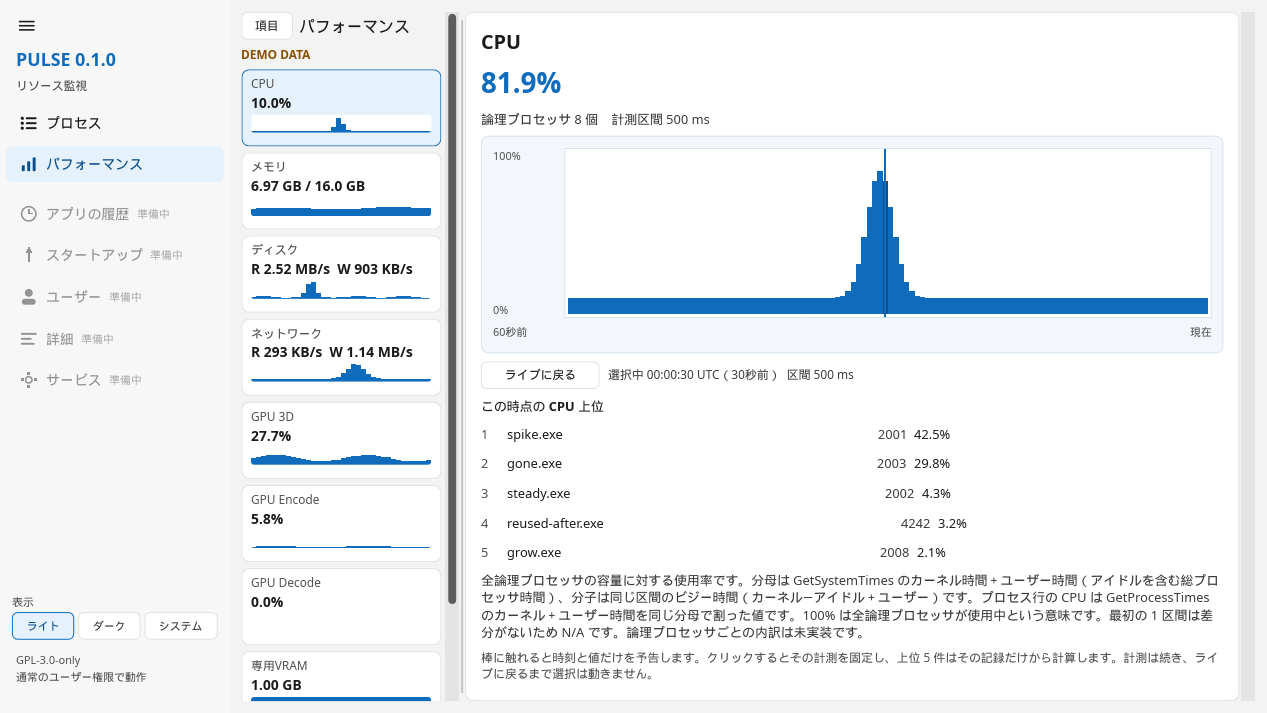
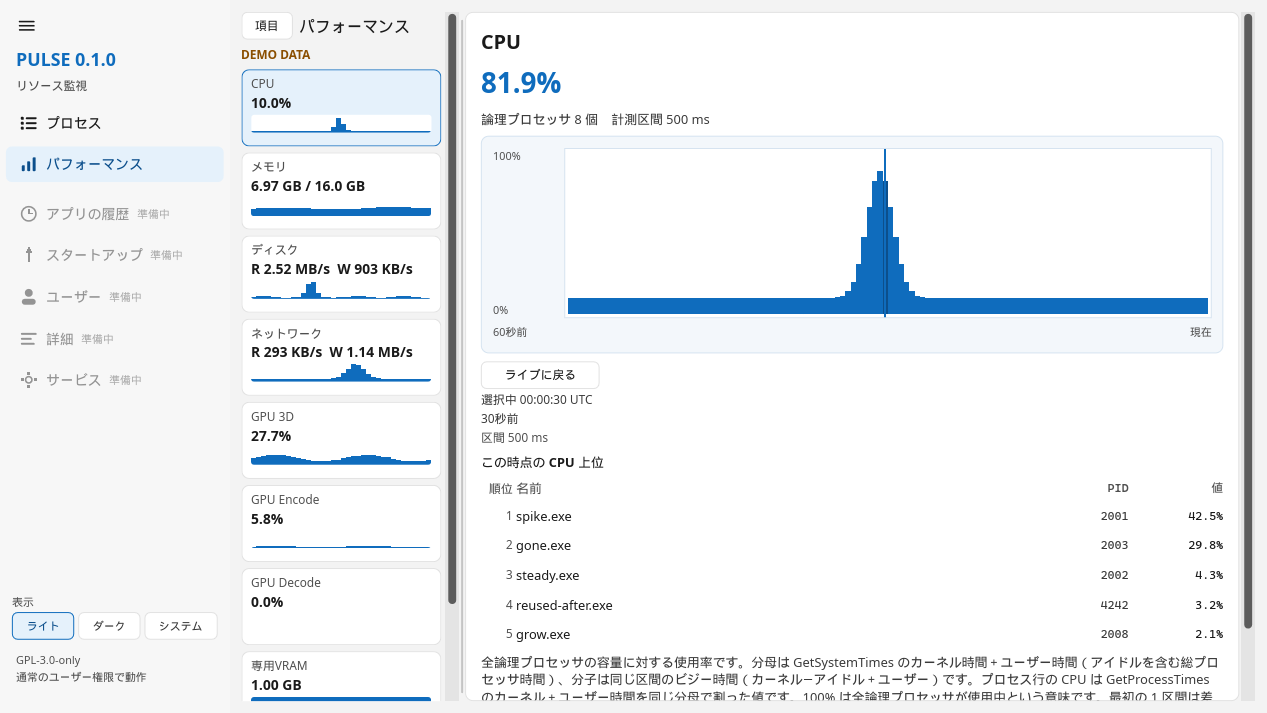
Align the ranking table and keep selection text from wrapping mid-phrase.
The top five share fixed right-aligned PID and value columns, and the
selected time, age, and interval sit on separate lines. A short window
uses a shorter graph so those rows stay on screen.

diff --git a/src/ui.rs b/src/ui.rs
@@ -41,6 +41,8 @@ struct UiState {
     adapter: Option<u64>,
     rank_cache: Option<RankCache>,
     pending_slot: Option<i32>,
+    /// Screenshot aid: a snapshot already evicted from the ring.
+    pending_retained: Option<Arc<Snapshot>>,
     rows: Rc<VecModel<ProcessRow>>,
     top: Rc<VecModel<TopRow>>,
     detail_points: Rc<VecModel<f32>>,
@@ -56,7 +58,8 @@ struct UiState {
 }
 
 pub fn run(options: LaunchOptions) -> Result<(), String> {
-    let sampler = SamplerHandle::start(options.demo.as_deref())?;
+    let mut sampler = SamplerHandle::start(options.demo.as_deref(), options.retained_pin())?;
+    let retained = sampler.take_retained();
     let ui = AppWindow::new().map_err(|err| format!("ウィンドウを作成できませんでした: {err}"))?;
     ui.set_version_text(format!("PULSE {}", env!("CARGO_PKG_VERSION")).into());
     ui.set_page(options.page);
@@ -83,7 +86,12 @@ pub fn run(options: LaunchOptions) -> Result<(), String> {
         timeline: Vec::new(),
         adapter: None,
         rank_cache: None,
-        pending_slot: options.select_history,
+        pending_slot: if retained.is_some() {
+            None
+        } else {
+            options.select_history
+        },
+        pending_retained: retained,
         rows: Rc::new(VecModel::from(Vec::<ProcessRow>::new())),
         top: Rc::new(VecModel::from(Vec::<TopRow>::new())),
         detail_points: Rc::new(VecModel::from(Vec::<f32>::new())),
@@ -429,6 +437,11 @@ fn apply(ui: &AppWindow, state: &Rc<RefCell<UiState>>, sample: &PublishedSample,
         }
         state.last_sequence = Some(sample.snapshot.sequence);
         state.timeline = sample.timeline.clone();
+        if let Some(snapshot) = state.pending_retained.take() {
+            state.selection.pin(snapshot);
+            state.pending_slot = None;
+            state.rank_cache = None;
+        }
         if let Some(index) = state.pending_slot.take() {
             pin_slot(&mut state, index);
         }
@@ -499,7 +512,7 @@ fn paint_history(
     resource: ResourceId,
     sample: &PublishedSample,
 ) {
-    let (adapter, shown, cursor, pinned, label, rows, caption, empty) = {
+    let (adapter, shown, cursor, pinned, lines, rows, caption, empty) = {
         let mut state = state.borrow_mut();
         let adapter = if gpu_resource(resource) {
             state.adapter
@@ -517,9 +530,9 @@ fn paint_history(
             .selected()
             .and_then(|selected| slot_of_id(&axis, selected.sequence));
         let pinned = !state.selection.is_live();
-        let label = match state.selection.selected() {
-            Some(selected) => history_label(selected, &sample.snapshot, cursor.is_some()),
-            None => String::new(),
+        let lines = match state.selection.selected() {
+            Some(selected) => history_lines(selected, &sample.snapshot, cursor.is_some()),
+            None => HistoryLines::none(),
         };
         let key = state
             .selection
@@ -563,7 +576,7 @@ fn paint_history(
             shown,
             cursor,
             pinned,
-            label,
+            lines,
             cache.rows.clone(),
             cache.caption.clone(),
             cache.empty.clone(),
@@ -579,7 +592,10 @@ fn paint_history(
     ui.set_detail_graph(detail.show_graph);
     ui.set_history_cursor(cursor.map(|index| index as i32).unwrap_or(-1));
     ui.set_history_pinned(pinned);
-    ui.set_history_label(label.into());
+    ui.set_history_when(lines.when.into());
+    ui.set_history_age(lines.age.into());
+    ui.set_history_interval(lines.interval.into());
+    ui.set_history_outside(lines.outside.into());
     ui.set_rank_caption(caption.into());
     ui.set_rank_empty(
         if empty.is_empty() {
@@ -664,7 +680,26 @@ fn hover_text(state: &UiState, index: i32) -> String {
     format!("{clock}  {}", detail.value)
 }
 
-fn history_label(selected: &Snapshot, latest: &Snapshot, in_window: bool) -> String {
+struct HistoryLines {
+    when: String,
+    age: String,
+    interval: String,
+    outside: String,
+}
+
+impl HistoryLines {
+    fn none() -> Self {
+        Self {
+            when: String::new(),
+            age: String::new(),
+            interval: String::new(),
+            outside: String::new(),
+        }
+    }
+}
+
+/// Separate lines so a narrow pane cannot break inside 「（30秒前）」.
+fn history_lines(selected: &Snapshot, latest: &Snapshot, in_window: bool) -> HistoryLines {
     let age = format_age(
         latest
             .monotonic
@@ -676,9 +711,19 @@ fn history_label(selected: &Snapshot, latest: &Snapshot, in_window: bool) -> Str
         None => "区間は未確定".to_string(),
     };
     if in_window {
-        format!("選択中 {clock}（{age}）  {interval}")
+        HistoryLines {
+            when: format!("選択中 {clock}"),
+            age,
+            interval,
+            outside: String::new(),
+        }
     } else {
-        format!("選択中：{age}（{clock}、{interval}）。この時点は直近 60 秒のグラフの外です")
+        HistoryLines {
+            when: format!("選択中：{age}"),
+            age: clock,
+            interval,
+            outside: "この時点は直近 60 秒のグラフの外です".to_string(),
+        }
     }
 }
 
@@ -844,6 +889,37 @@ fn sync_model<T: Clone + 'static>(model: &VecModel<T>, mut next: Vec<T>) {
     }
     while model.row_count() > target {
         let _ = model.remove(model.row_count() - 1);
+    }
+}
+
+#[cfg(test)]
+mod history_line_tests {
+    use super::history_lines;
+    use crate::model::Snapshot;
+    use std::time::{Duration, Instant, SystemTime};
+
+    #[test]
+    fn selection_text_keeps_the_age_on_its_own_line() {
+        let origin = Instant::now();
+        let mut selected = Snapshot::bare(1, origin);
+        selected.interval = Some(Duration::from_millis(500));
+        selected.taken_at = SystemTime::UNIX_EPOCH + Duration::from_secs(30);
+        let inside = history_lines(
+            &selected,
+            &Snapshot::bare(2, origin + Duration::from_secs(30)),
+            true,
+        );
+        assert_eq!(inside.age, "30秒前");
+        assert!(!inside.when.contains('（'));
+        assert!(inside.outside.is_empty());
+        let outside = history_lines(
+            &selected,
+            &Snapshot::bare(3, origin + Duration::from_secs(70)),
+            false,
+        );
+        assert_eq!(outside.when, "選択中：1分10秒前");
+        assert_eq!(outside.interval, "区間 500 ms");
+        assert!(outside.outside.contains("グラフの外"));
     }
 }
 

diff --git a/src/launch.rs b/src/launch.rs
@@ -15,6 +15,8 @@ pub struct LaunchOptions {
     pub resource: Option<i32>,
     /// One-shot history bar to pin after the first snapshot. Screenshot aid.
     pub select_history: Option<i32>,
+    /// Mock seconds to publish after pinning, so the point leaves the ring.
+    pub age_history: Option<u32>,
 }
 
 impl LaunchOptions {
@@ -29,6 +31,7 @@ impl LaunchOptions {
             hide_resource: None,
             resource: None,
             select_history: None,
+            age_history: None,
         };
         let mut args = std::env::args().skip(1);
         while let Some(arg) = args.next() {
@@ -122,13 +125,40 @@ impl LaunchOptions {
                     return Err("棒の番号は 0 以上です".to_string());
                 }
                 options.select_history = Some(index);
+            } else if arg == "--age-history" {
+                let text = args
+                    .next()
+                    .ok_or_else(|| "--age-history の後に秒数が必要です".to_string())?;
+                let seconds: u32 = text
+                    .parse()
+                    .map_err(|_| format!("秒数が整数ではありません: {text}"))?;
+                if seconds == 0 {
+                    return Err("--age-history は 1 秒以上です".to_string());
+                }
+                options.age_history = Some(seconds);
             } else if arg == "--help" || arg == "-h" {
                 return Err(help_text());
             } else {
                 return Err(format!("未知の引数です: {arg}\n{}", help_text()));
             }
         }
+        if options.age_history.is_some() && options.demo.is_none() {
+            return Err("--age-history は --demo と一緒に指定します".to_string());
+        }
+        if options.age_history.is_some() && options.select_history.is_none() {
+            return Err("--age-history には --select-history も必要です".to_string());
+        }
         Ok(options)
+    }
+
+    /// Screenshot plan: keep the chosen slot, then move the mock clock forward.
+    pub fn retained_pin(&self) -> Option<crate::sampler::RetainRequest> {
+        let seconds = self.age_history?;
+        let index = usize::try_from(self.select_history?).ok()?;
+        let step_ms = crate::config::CPU_SAMPLE_INTERVAL.as_millis().max(1);
+        let steps = (u128::from(seconds) * 1000 / step_ms).max(1);
+        let extra_steps = u32::try_from(steps).unwrap_or(u32::MAX);
+        Some(crate::sampler::RetainRequest { index, extra_steps })
     }
 }
 
@@ -149,7 +179,7 @@ fn parse_size(text: &str) -> Result<(f32, f32), String> {
 }
 
 fn help_text() -> String {
-    "[--size 1280x720] [--page process|performance] [--theme light|dark|system] [--resource cpu|memory|disk|network|gpu3d|gpu-encode|gpu-decode|vram|shared] [--select-history N] [--menu columns|resources] [--hide-column disk] [--hide-resource gpu-encode] [--demo normal|many|gaps|special|history]\n--demo は mock feature 付きの開発ビルドだけが受け付けます。--select-history は 60 秒軸の棒を一度だけ固定します。列と資源の表示は %APPDATA%\\PULSE\\ui.cfg（Linux では ~/.config/PULSE/ui.cfg）に保存します。".to_string()
+    "[--size 1280x720] [--page process|performance] [--theme light|dark|system] [--resource cpu|memory|disk|network|gpu3d|gpu-encode|gpu-decode|vram|shared] [--select-history N] [--age-history 秒] [--menu columns|resources] [--hide-column disk] [--hide-resource gpu-encode] [--demo normal|many|gaps|special|history]\n--demo は mock feature 付きの開発ビルドだけが受け付けます。--select-history は 60 秒軸の棒を一度だけ固定します。--age-history はその点を固定したあと、モックの時計だけを進め、リングから外れた選択を残します。列と資源の表示は %APPDATA%\\PULSE\\ui.cfg（Linux では ~/.config/PULSE/ui.cfg）に保存します。".to_string()
 }
 
 #[cfg(test)]

diff --git a/src/sampler.rs b/src/sampler.rs
@@ -82,6 +82,11 @@ impl SamplerCore {
         }
     }
 
+    fn aligned_at(&self, index: usize) -> Option<Arc<Snapshot>> {
+        let aligned = align_timeline(self.history.iter().cloned(), self.history.capacity());
+        aligned.get(index).and_then(|slot| slot.clone())
+    }
+
     pub fn tick(&mut self) -> PublishedSample {
         let mut raw = self.probe.probe();
         for enricher in &mut self.enrichers {
@@ -118,16 +123,38 @@ pub struct SamplerHandle {
     shared: SharedLatest,
     stop: Arc<AtomicBool>,
     join: Option<JoinHandle<()>>,
+    /// One snapshot kept for a screenshot of selection outside the ring.
+    retained: Option<Arc<Snapshot>>,
+}
+
+/// Pin this aligned slot, then publish `extra_steps` newer samples.
+/// The mock clock moves with those steps. Wall time is not waited on.
+#[derive(Clone, Copy, Debug)]
+pub struct RetainRequest {
+    pub index: usize,
+    pub extra_steps: u32,
 }
 
 impl SamplerHandle {
-    pub fn start(demo: Option<&str>) -> Result<Self, String> {
+    pub fn start(demo: Option<&str>, retain: Option<RetainRequest>) -> Result<Self, String> {
         let shared = SharedLatest::new();
         let stop = Arc::new(AtomicBool::new(false));
         let (mut core, warmup) = build_core(demo)?;
         for _ in 0..warmup {
             shared.publish(core.tick());
         }
+        let retained = if let Some(request) = retain {
+            let pinned = core.aligned_at(request.index).ok_or_else(|| {
+                "指定した履歴の位置に計測がありません。60 秒分のデモを温めてから指定してください。"
+                    .to_string()
+            })?;
+            for _ in 0..request.extra_steps {
+                shared.publish(core.tick());
+            }
+            Some(pinned)
+        } else {
+            None
+        };
         let shared_thread = shared.clone();
         let stop_thread = Arc::clone(&stop);
         let join = thread::Builder::new()
@@ -138,11 +165,16 @@ impl SamplerHandle {
             shared,
             stop,
             join: Some(join),
+            retained,
         })
     }
 
     pub fn latest(&self) -> SharedLatest {
         self.shared.clone()
+    }
+
+    pub fn take_retained(&mut self) -> Option<Arc<Snapshot>> {
+        self.retained.take()
     }
 }
 
@@ -331,5 +363,32 @@ mod tests {
             core.history.iter().next().unwrap().processes[0].cpu_percent,
             MetricValue::Unavailable
         );
+    }
+
+    #[test]
+    fn extra_steps_evict_the_pinned_slot_without_waiting() {
+        let mut core = SamplerCore::new(
+            Box::new(ScriptedProbe {
+                ticks: 0,
+                start: Instant::now(),
+            }),
+            Vec::new(),
+        );
+        for _ in 0..history_capacity() {
+            core.tick();
+        }
+        let pinned = core.aligned_at(59).expect("slot");
+        let pinned_id = pinned.sequence;
+        for _ in 0..80 {
+            core.tick();
+        }
+        let still = align_timeline(core.history.iter().cloned(), core.history.capacity());
+        assert!(still
+            .iter()
+            .flatten()
+            .all(|snapshot| snapshot.sequence != pinned_id));
+        let newest = core.history.iter().last().expect("newest");
+        let age = newest.monotonic.saturating_duration_since(pinned.monotonic);
+        assert_eq!(age, Duration::from_secs(70));
     }
 }

diff --git a/src/rank.rs b/src/rank.rs
@@ -94,24 +94,24 @@ pub fn rank_caption(resource: ResourceId, adapter_named: bool) -> &'static str {
     match resource {
         ResourceId::Cpu => "この時点の CPU 上位",
         ResourceId::Memory => "この時点のメモリ上位",
-        ResourceId::Disk => "この時点のプロセス I/O 上位（物理ディスクの転送量とは別）",
-        ResourceId::Network => "この時点のプロセス通信上位（アダプター合計とは別）",
-        ResourceId::Gpu3d if adapter_named => "この時点の GPU 3D 上位（選択中のアダプター）",
+        ResourceId::Disk => "この時点のプロセス I/O 上位\n（物理ディスクの転送量とは別）",
+        ResourceId::Network => "この時点のプロセス通信上位\n（アダプター合計とは別）",
+        ResourceId::Gpu3d if adapter_named => "この時点の GPU 3D 上位\n（選択中のアダプター）",
         ResourceId::Gpu3d => "この時点の GPU 3D 上位",
         ResourceId::GpuEncode if adapter_named => {
-            "この時点の GPU Encode 上位（選択中のアダプター）"
+            "この時点の GPU Encode 上位\n（選択中のアダプター）"
         }
         ResourceId::GpuEncode => "この時点の GPU Encode 上位",
         ResourceId::GpuDecode if adapter_named => {
-            "この時点の GPU Decode 上位（選択中のアダプター）"
+            "この時点の GPU Decode 上位\n（選択中のアダプター）"
         }
         ResourceId::GpuDecode => "この時点の GPU Decode 上位",
         ResourceId::VramDedicated if adapter_named => {
-            "この時点の専用 VRAM 上位（選択中のアダプター）"
+            "この時点の専用 VRAM 上位\n（選択中のアダプター）"
         }
         ResourceId::VramDedicated => "この時点の専用 VRAM 上位",
         ResourceId::VramShared if adapter_named => {
-            "この時点の共有 GPU メモリ上位（選択中のアダプター）"
+            "この時点の共有 GPU メモリ上位\n（選択中のアダプター）"
         }
         ResourceId::VramShared => "この時点の共有 GPU メモリ上位",
     }

diff --git a/README.md b/README.md
@@ -32,7 +32,7 @@ cargo run --features mock -- --demo normal --page performance --size 1280x720 --
 cargo run --features mock -- --demo history --page performance --size 1280x720 --theme dark --select-history 59
 ```
 
-`--resource` は `cpu` / `memory` / `disk` / `network` / `gpu3d` / `gpu-encode` / `gpu-decode` / `vram` / `shared` です。`--select-history N` は 60 秒軸の N 番目の棒を一度だけ固定します。どちらも画面確認用です。
+`--resource` は `cpu` / `memory` / `disk` / `network` / `gpu3d` / `gpu-encode` / `gpu-decode` / `vram` / `shared` です。`--select-history N` は 60 秒軸の N 番目の棒を一度だけ固定します。`--age-history SECONDS` は `--demo` と `--select-history` と一緒のときだけ使えます。固定した記録を残したまま模擬時計を進め、グラフの外に出た選択（「選択中：○分○秒前」、選択線なし）を確認します。どれも画面確認用です。
 
 ## 主な機能（Phase 1）
 
